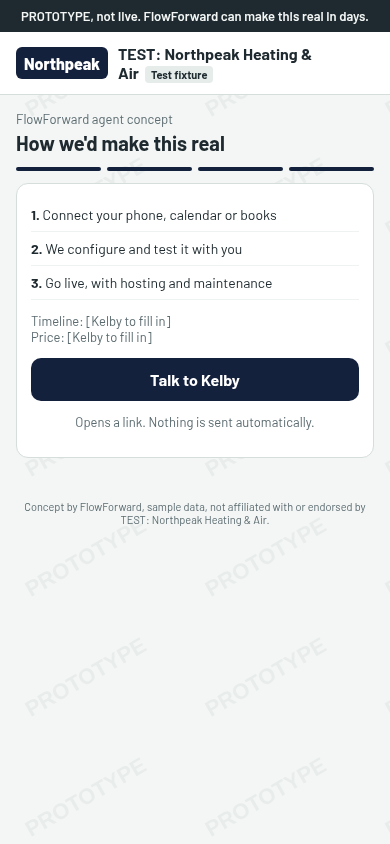
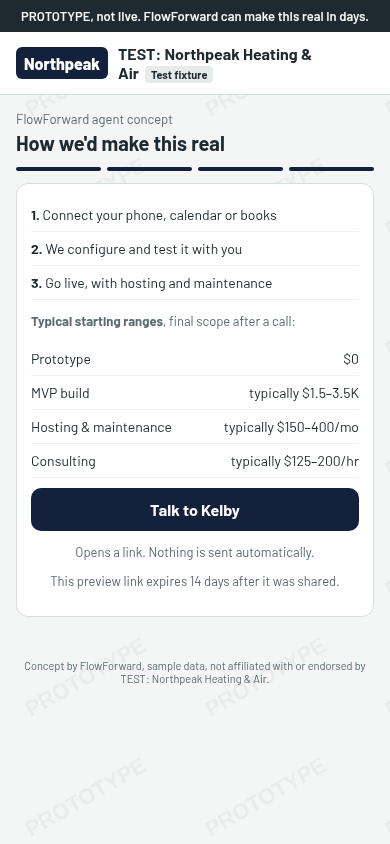
docs(design): Kelby decisions: wordmark-only, CTA price anchors, 14-day links

Changed region(s): [[0.0615, 0.3697, 0.9231, 0.7085], [0.0615, 0.7701, 0.9231, 0.8318]]

diff --git a/docs/design/prototype-system.md b/docs/design/prototype-system.md
@@ -1,10 +1,10 @@
 # FlowForward Prototype Design System
 
-Branded clickable prototypes of FlowForward agents (scheduling, call, bookkeeping, estimate follow-up). Each one re-skins to a prospect's logo and brand color. **This is a spec only.** Delta implements it.
+Branded clickable prototypes of FlowForward agents (scheduling, call, bookkeeping, estimate follow-up). Each one re-skins to a prospect's business-name wordmark and brand color (no logos). **This is a spec only.** Delta implements it.
 
 ## 1. Theme tokens
 
-**Inputs:** `businessName`, `brandPrimary` (hex, optional), `brandSecondary` (hex, optional), `logo` (optional; **fixture or manual entry only**, see §2 Logo handling). In v1 there is no `logoUrl` fetched from the prospect's site.
+**Inputs:** `businessName`, `brandPrimary` (hex, optional), `brandSecondary` (hex, optional). There is **no logo input**: real logos are not approved (Kelby's decision), so the only brand mark is the wordmark (see §2 Brand mark). No `logo`, `logoUrl`, upload or manual-logo option exists, and nothing is fetched from the prospect's site.
 
 **Neutral FlowForward chrome (River Valley), fixed:**
 
@@ -46,23 +46,20 @@ The surfaces are always light, so in practice this darkens. Hue is preserved, so
 
 | Input | Raw on paper | Accent | Accent contrast | On-accent |
 |---|---|---|---|---|
-| #F5E050 yellow | 1.23:1 ✗ | #846E00 | 4.59:1 ✓ | white 4.99:1 |
+| #F5E050 yellow | 1.23:1 ✗ | #7D7000 | 4.61:1 on paper ✓ | white 5.01:1 |
 | #14213D navy | ~14:1 ✓ | #14213D (unchanged) | ✓ | white |
-| none / logo failed | — | #2F6B57 juniper | ✓ | white |
+| none / invalid hex | — | #2F6B57 juniper | ✓ | white |
 
-**Logo handling (v1)**
-- **Default: name wordmark plus colors.** The header shows `businessName` (with the `TEST:` prefix stripped for the wordmark) as text on an `accent` plate with `onAccent` text. This stays the default until Kelby decides on logos.
-- **Allowed logo sources in v1:** checked-in fixtures, or an image Kelby enters manually (uploaded or committed as an asset). **No fetching from a prospect's website.** That waits for #30 plus a Warden review.
-- **No server-side remote fetch, ever.** Logo luminance sampling (for the plate decision) must never fetch a remote URL on the server, because that's an SSRF risk. Sample only local fixture or uploaded bytes, or precompute at fixture-authoring time and store `logoPlate: "light" | "dark" | "none"` with the fixture.
-- **Sizing:** max height 32px (mobile) / 40px (desktop), max width 160px, `object-fit: contain`. If the image fails to load, fall back to the name wordmark.
-- **Wordmark plate:** the name wordmark always sits on the corrected `accent` with `onAccent` text, never on the raw brand color (e.g. yellow #F5E050 renders as #846E00 with white text).
-- **Logo plate:** if the logo's contrast against the white header is < 3:1, put it on a slate plate (for a light logo) or a paper plate with a 1px slate inset border. Plate padding is 4px 8px, radius 6px.
+**Brand mark: wordmark only (v1)**
+- **The wordmark is the sole brand mark.** Real logos are **not approved** (Kelby's decision). The header shows `businessName` (with the `TEST:` prefix stripped) as text on an `accent` plate with `onAccent` text, plus the brand colors. There are no logo fixtures, no logo upload, no manual-logo entry, and no logo fallback state.
+- **No remote fetch, ever.** Prototypes never fetch anything (logos, images, colors) from a prospect's website or any remote URL on the server; that's an SSRF risk. Brand colors are entered as hex values.
+- **Wordmark plate:** the wordmark always sits on the corrected `accent` with `onAccent` text, never on the raw brand color (e.g. yellow #F5E050 renders as #7D7000 with white text). Plate padding is 4px 8px, radius 6px, height 32px (mobile) / 40px (desktop).
 
 ## 3. Layout
 
 Mobile-first at **390px**, desktop at **1280px**. On desktop the flow sits in a centered 720px column, with the CTA panel as a 360px sticky right rail.
 
-**Shared shell (top → bottom):** watermark ribbon → branded header (logo + business name + "Sample business" tag) → agent title + subtitle → step progress (3–5 segments, clickable back/next) → screen content → CTA panel (after the final step on mobile, right rail on desktop) → footer.
+**Shared shell (top → bottom):** watermark ribbon → branded header (wordmark + business name + "Sample business" tag) → agent title + subtitle → step progress (3–5 segments, clickable back/next) → screen content → CTA panel (after the final step on mobile, right rail on desktop) → footer.
 
 **Key screens per agent:**
 - **Scheduling:** booking calendar (slot grid) → confirmation summary.
@@ -78,9 +75,9 @@ Rendered by `PrototypeWatermark` from the prototype shell, **outside theme/brand
 - **Tiled pattern:** diagonal (−30°) "PROTOTYPE" SVG tile behind content at ~5% opacity (range 4–6%), `pointer-events: none`.
 - **No ROI or close-rate promises** (from #40), anywhere: copy, demo, or proposal. No invented ROI, revenue-recovered, or savings figures in prototypes. Use conditional wording only ("could", "shops like yours often").
 - **No real names:** vendors, brands, companies and people in mockups and fixtures are fictional (e.g. "Sample Pipe Supply", "Sample Fuel Stop"). Every ledger row, call record, message and booked job carries a Sample tag.
-- **Fixture naming:** fixture business names use a `TEST:` prefix (e.g. `TEST: Cedar Lane HVAC`). Fixtures prefer HVAC (primary) and plumbing (secondary), per #40's target. Real prospect names and logos never go into fixtures.
+- **Fixture naming:** fixture business names use a `TEST:` prefix (e.g. `TEST: Cedar Lane HVAC`). Fixtures prefer HVAC (primary) and plumbing (secondary), per #40's target. Real prospect names never go into fixtures, and there are no logo fixtures.
 - **Sample tags:** every fake datum (customer, amount, phone, business) carries a "Sample" tag or a "(sample)" suffix. Phone numbers use the 555-01xx range, e.g. (801) 555-0142.
-- **Footer:** "Concept by FlowForward, sample data, not affiliated with or endorsed by <Business>."
+- **Footer:** "Concept by FlowForward, sample data, not affiliated with or endorsed by <Business>. This preview link expires 14 days after it was shared."
 - **No real actions:** every acting button shows a toast, "In the live version this would …". No network sends.
 - **Injection-safe:** `businessName` and all brand strings are rendered as escaped text, never as HTML. A business name containing markup must not be able to remove or hide the watermark.
 - **Guarantee:** the watermark is server-rendered markup and tests assert it is present and visible under hostile colors, markup in the business name (e.g. `<style>.ribbon{display:none}</style>`, `</div><script>`), very long names, `?watermark=0`, every flag combination, and theme overrides. CSS can't stop DevTools removal; the server markup plus the tests are the guarantee.
@@ -91,16 +88,25 @@ Rendered by `PrototypeWatermark` from the prototype shell, **outside theme/brand
 2. We configure and test it with you.
 3. Go live, with hosting and maintenance.
 
-Timeline: **[Kelby to fill in]**. Price: **[Kelby to fill in]**. Do not invent numbers.
+**Price anchors** (Kelby's numbers; always phrased conditionally, as typical starting ranges, never guarantees):
+- Prototype: **$0**.
+- MVP build: typically **$1.5–3.5K**.
+- Hosting and maintenance: typically **$150–400/mo**.
+- Consulting: typically **$125–200/hr**.
+
+Show them with the qualifier "Typical starting ranges; final scope after a call." Do not add other numbers, and no ROI, savings, revenue-recovered or close-rate promises.
+
+**Link expiry:** prototype links expire **14 days** after they're shared. The CTA panel and footer both say so, e.g. "This preview link expires 14 days after it was shared."
 One primary button, **"Talk to Kelby"**, which is a plain link (`<a href>`, e.g. a booking page or `mailto:`). It never sends email automatically or submits a form.
 
 ## 6. Acceptance checklist (Delta's PR)
 
 - [ ] Tokens implemented; brand color appears only on accent elements.
-- [ ] Contrast unit tests: #F5E050 → passes 4.5:1 against paper and white, #14213D unchanged, neon (#00FF00, #FF00FF) chroma-capped, invalid/missing → juniper.
+- [ ] Contrast unit tests: #F5E050 → #7D7000 (4.61:1 on paper, 5.01:1 on white), #14213D unchanged, neon (#00FF00, #FF00FF) chroma-capped, invalid/missing → juniper.
 - [ ] `onAccent` picks the higher-contrast option of white or slate.
-- [ ] Name wordmark is the default; logos come only from fixtures or manual entry; no remote logo fetch and no server-side remote sampling (asserted in the test).
-- [ ] Logo max height, plate logic, and load-failure fallback.
+- [ ] Wordmark is the only brand mark: no logo input, fixture, upload or manual-logo option; no remote fetch of any kind (asserted in the test).
+- [ ] Wordmark plate uses `accent`/`onAccent`, never the raw brand color.
+- [ ] Prototype links expire 14 days after sharing; CTA and footer state the expiry.
 - [ ] **Required test:** a business name containing `<style>.ribbon{display:none}</style>` or `</div><script>` is escaped (appears as literal text), and the ribbon, tile and footer remain present and visible.
 - [ ] Estimate follow-up demo is email-only (3–4 touches, stops on reply, call shown only as an owner reminder).
 - [ ] Fixture names use the `TEST:` prefix; no real vendor, brand, company or person names; Sample tags on all fake data rows.
@@ -109,10 +115,10 @@ One primary button, **"Talk to Kelby"**, which is a plain link (`<a href>`, e.g.
 - [ ] Watermark ribbon + tile + footer present; tests cover hostile colors, `?watermark=0`, flags, and theme overrides.
 - [ ] Ribbon has `role="note"` and no close control.
 - [ ] Every action button shows a toast; no outbound requests (asserted in the test).
-- [ ] CTA uses price/timeline placeholders; "Talk to Kelby" is an `<a>`.
+- [ ] CTA shows the four conditional price anchors (prototype $0, MVP $1.5–3.5K, hosting $150–400/mo, consulting $125–200/hr) with the "typical starting ranges, final scope after a call" qualifier and no guarantees; "Talk to Kelby" is an `<a>`.
 - [ ] Layout verified at 390 and 1280; axe shows no contrast violations.
 
-**Screenshot proof list:** each of the 4 agents at 390 and 1280; yellow (#F5E050) and navy (#14213D) themes; the logo-fallback state; a toast visible; the CTA panel; `?watermark=0` still showing the watermark.
+**Screenshot proof list:** each of the 4 agents at 390 and 1280; yellow (#F5E050) and navy (#14213D) themes; the no-brand-color (juniper) state; a toast visible; the CTA panel; `?watermark=0` still showing the watermark.
 
 ## Mockups (390px)
 
